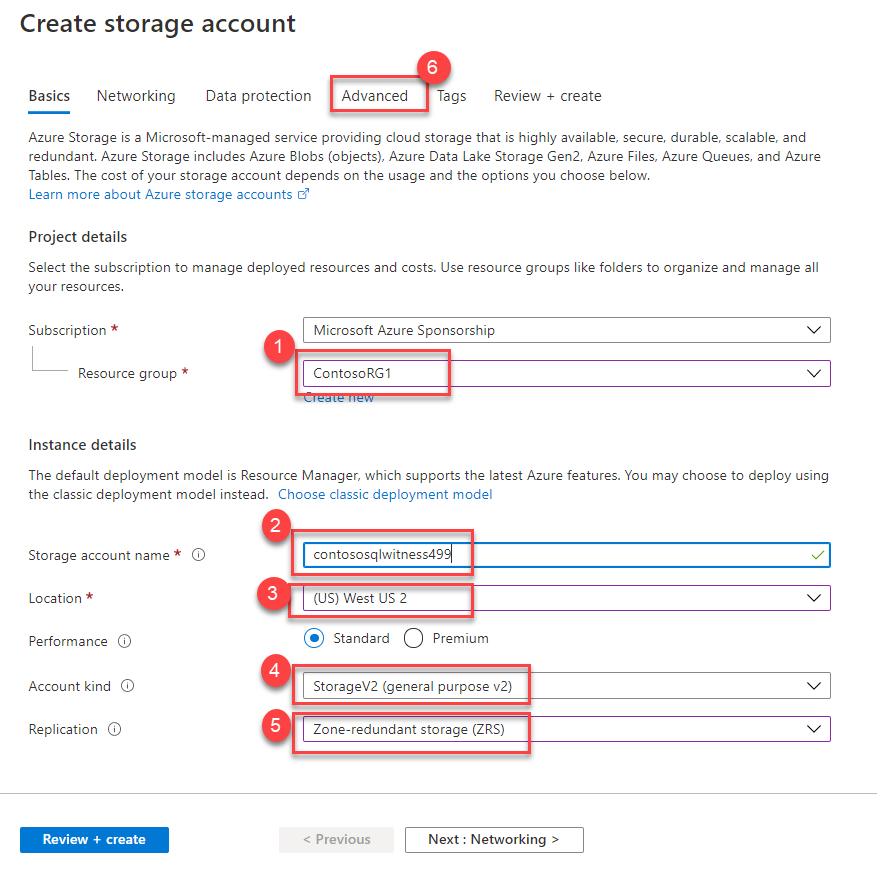
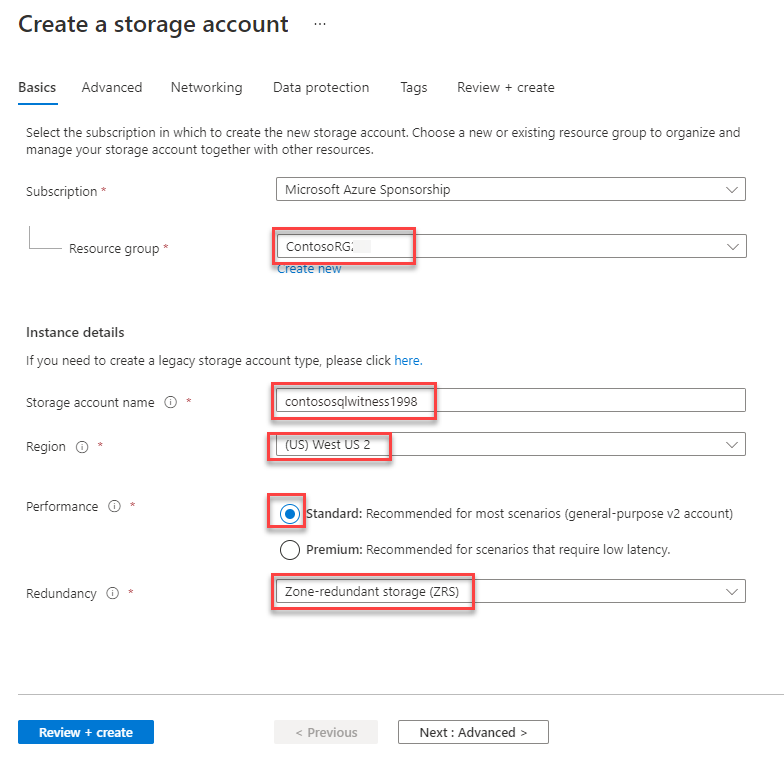
Updated MCW

diff --git a/Hands-on lab/HOL step-by step - Building a resilient IaaS architecture.md b/Hands-on lab/HOL step-by step - Building a resilient IaaS architecture.md
@@ -165,7 +165,7 @@ In this task, you will configure the virtual network to include both domain cont
 In this task, you will build a Windows Failover Cluster and configure SQL Always On Availability Groups to create a high-availability database tier.
 
 
-1. From the Azure portal home page, select **+ Create a resource**. Select **Storage** and then select **Storage account - blob, file, table, queue**.
+1. From the Azure portal home page, select **+ Create a resource**. Select **Storage account**.
    
 2. Complete the **Create storage account** form using the following details:
 
@@ -173,7 +173,6 @@ In this task, you will build a Windows Failover Cluster and configure SQL Always
     - **Storage account name:** Unique name starting with `contososqlwitness`
     - **Location**: Any location in your area that is **NOT** your Primary or Secondary site, for example **West US 2**
     - **Performance**: Standard
-    - **Account kind**: StorageV2 (general purpose v2)
     - **Replication**: Zone-redundant storage (ZRS)
     - **Access tier (default)**: Hot
 
@@ -185,7 +184,7 @@ In this task, you will build a Windows Failover Cluster and configure SQL Always
 
     > **Note:** To promote use of the latest and most secure standards, by default Azure storage accounts require TLS version 1.2. This storage account will be used as a Cloud Witness for our SQL Server cluster. SQL Server requires TLS version 1.0 for the Cloud Witness.
 
-4.  Once the storage account is created, navigate to the storage account blade. Select **Access keys** under **Settings**. Copy the **storage account name** and the **first access key** to notepad - you will need these values later.
+4.  Once the storage account is created, navigate to the storage account blade. Select **Access keys** under **Security + networking**. Select **Show keys** then copy the **storage account name** and the **first access key** to notepad - you will need these values later.
 
     ![In the Storage account Access keys section, the Storage account name and key1 are called out.](images/ha-storagekey.png "Storage account section")
 
@@ -507,15 +506,15 @@ In this task, you will deploy the resources used by the DR environment. First, y
     
 Next, you will create the Recovery Services Vault used to replicate the Web tier VMs and orchestrate the cross-site failover.
 
-4.  From the Azure portal, select **+Create a resource**, followed by **IT & Management Tools**, then **Backup and Site Recovery**.
-
-    ![Screenshot of the Backup and Site Recovery Screen with the Create button selected.](images/dr-rsv.png "Backup and Site Recovery Screen Create Button")
+4.  From the Azure portal, select **+Create a resource**, then search for and select **Backup and Site Recovery** then select **Create**.
 
 5.  Complete the **Recovery Services Vault** blade using the following inputs, then select **Review and Create**, followed by **Create**:
 
-    - **Name**: `BCDRRSV`
     - **Resource Group**: ContosoRG2
+    - **Name**: `BCDRRSV`
     - **Location**: East US 2 *(your secondary region)*
+
+    ![Screenshot of the Backup and Site Recovery Screen with the Create button selected.](images/dr-rsv.png "Backup and Site Recovery Screen Create Button")
 
 6.  Once the **BCDRRSV** Recovery Service Vault has been created, open it in the Azure portal and select the **Site Recovery** tab.
 
